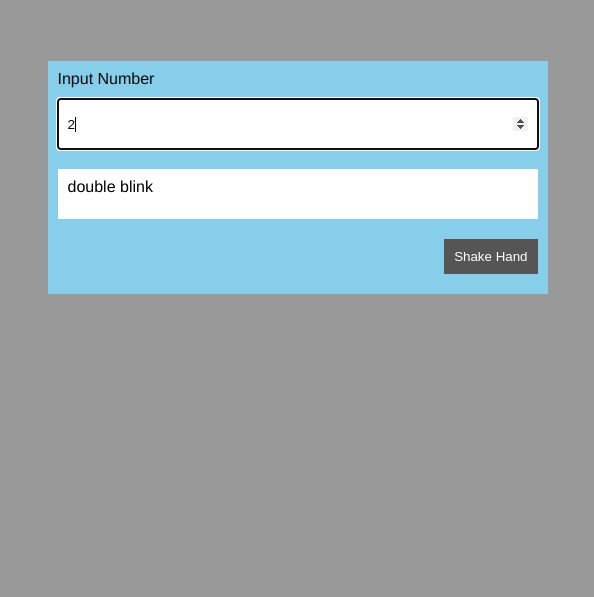
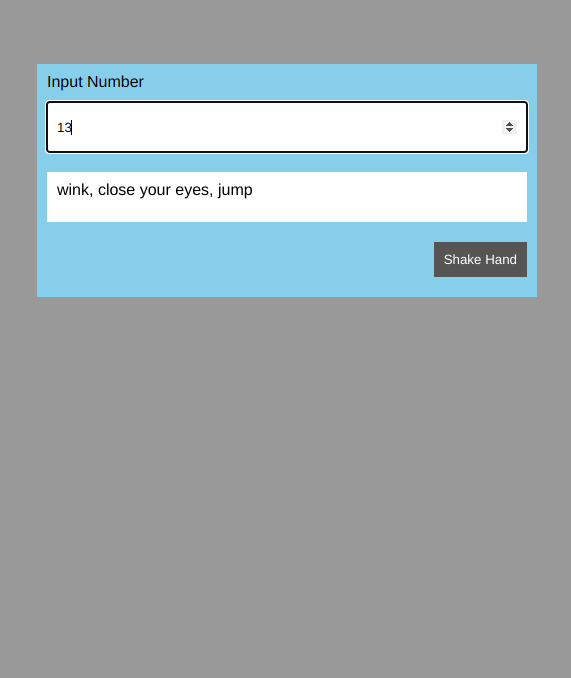
added a different overview imge

Changed region(s): [[0.0595, 0.0905, 0.9527, 0.5126]]

diff --git a/assets/scripts/script.js b/assets/scripts/script.js
@@ -47,7 +47,7 @@ const findResponse = (val, arr) => {
 
 const checkRange = (valu, arre) => {
   let va2 = 0
-  if ((valu <= 4)||(valu === 8)) {
+  if ((valu <= 4)||(valu == 8)) {
     findResponse(valu, arre)
   }
   else if((valu > 4)&&(valu < 8)) {
@@ -58,10 +58,18 @@ const checkRange = (valu, arre) => {
  
   }
   else if((valu > 8)&&(valu < 16)) {
-    findResponse(valu-8, arre)
-    k++
-    findResponse(8, arre)
-    console.log(reversedArray)
+    if(valu < 13) {
+      findResponse(valu-8, arre)
+      k++
+      findResponse(8, arre)
+      console.log(reversedArray)
+    }else {
+      findResponse(valu-12, arre)
+      k++
+      findResponse((valu-(valu-12))-8, arre)
+      k++
+      findResponse(8, arre)
+    }
   }
 
   k = 0
@@ -72,7 +80,6 @@ shakeHandBtn.addEventListener('click', ()=> {
   let resultant = 0
   if (inputNumber.value < 16) {
     checkRange(inputNumber.value, arrayOfCode)
-    // console.log(arrayOfCode)
   }
   else if (inputNumber.value >= 16) {
     // checkRange((inputNumber.value-16), reversedArray)
